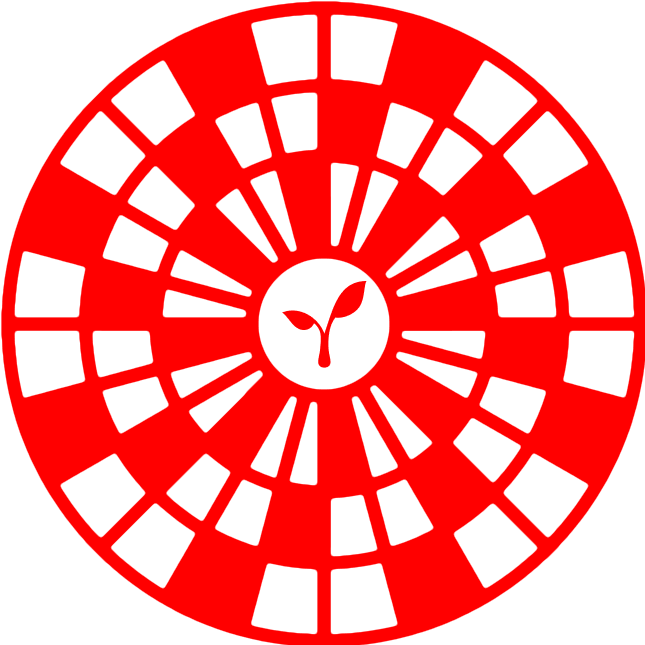
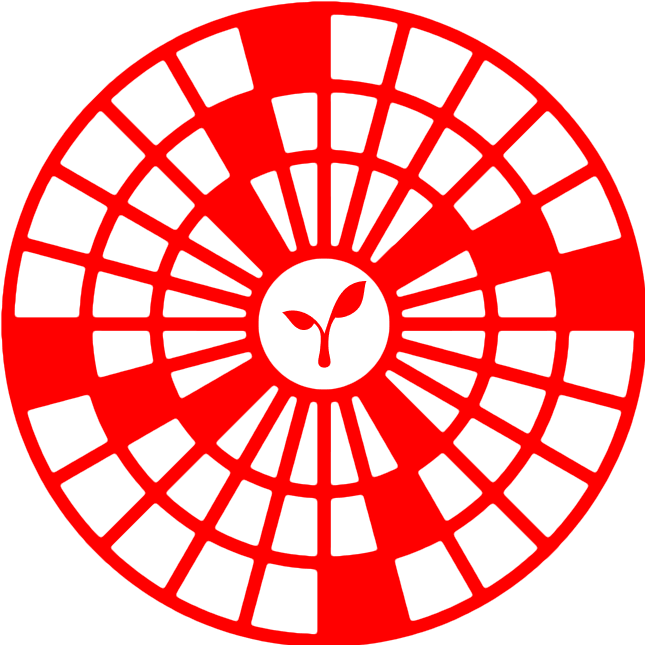
style text, update spinner designs

diff --git a/index.html b/index.html
@@ -19,22 +19,14 @@
     </div>
 
     <div id="text">
-        <h1>RAD RADIO</h1>
-        <h2>
-            <ul>
-                <li>Hosted by Hör</li>
-                <li>Presented by Radicle</li>
-                <li>Made possible by Livepeer</li>
-            </ul>
-        </h2>
+        <h3>Hosted by Hör</h3>
+        <h1>RAD</h1>
+        <h3>Presented by Radicle</h3>
+        <h1>RADIO</h1>
+        <h3>Made possible by Livepeer</h3>
+        <h2 id="timer">07D 04H 28M 05S</h2>
     </div>
 
-    <div id="timer">
-        <div id="days">7d</div>
-        <div id="hours">04h</div>
-        <div id="minutes">28m</div>
-        <div id="seconds">00s</div>
-    </div>
 
 </body>
 </html>

diff --git a/style.css b/style.css
@@ -7,6 +7,40 @@ body {
   background-color: #c5ff29;
   font-family: "Maxi";
   font-feature-settings: "tnum" on, "lnum" on, "ss02" on, "ss01" on;
+  text-align: center;
+  display: flex;
+  flex-direction: column;
+  height: 100%;
+  overflow: hidden;
+}
+
+#text {
+  display: flex;
+  flex-direction: column;
+  justify-content: center;
+  height: 100%;
+}
+
+h1,
+h2,
+h3 {
+  margin: 0;
+}
+
+h1 {
+  font-size: 19vw;
+  line-height: 85%;
+}
+
+h2 {
+  text-transform: uppercase;
+  font-size: 5vw;
+  line-height: 120%;
+}
+
+h3 {
+  color: red;
+  text-transform: uppercase;
 }
 
 #spinners > * {
